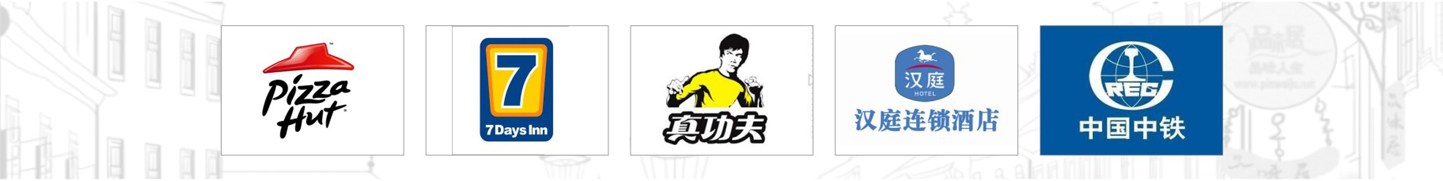
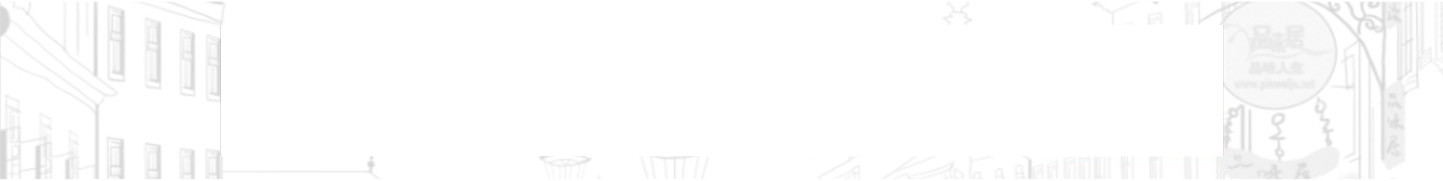
ppppppp

diff --git a/SunShine.Web/Css/Bootstrap/home.css b/SunShine.Web/Css/Bootstrap/home.css
@@ -928,3 +928,8 @@ ul.thirdLevel {
 
     .decription_text{width:1000px;height:40px;margin:0px auto}
     .decription_text .decription_kanshi{color:#dd2116;font-size:24px;font-family:微软雅黑;line-height:24px;font-weight:700;margin-top:10px;margin-left:193px;letter-spacing:1px}
+   
+    .gundongbejing{background:url(../../Images/home/hezuo_1.jpg) no-repeat;height:181px;padding-top:25px}
+    .gundongxiaoguo{width:1000px;height:131px;margin:0px auto;overflow: hidden; position: relative;}
+    .gundongxiaoguo ul{padding: 0px; overflow: hidden; position: relative; list-style: none; width: 8604px; left: 0px}
+    .gundongxiaoguo ul li{text-align: center; position: relative; overflow: hidden; float: left;border:2px #efefef solid;margin-left:10px}
